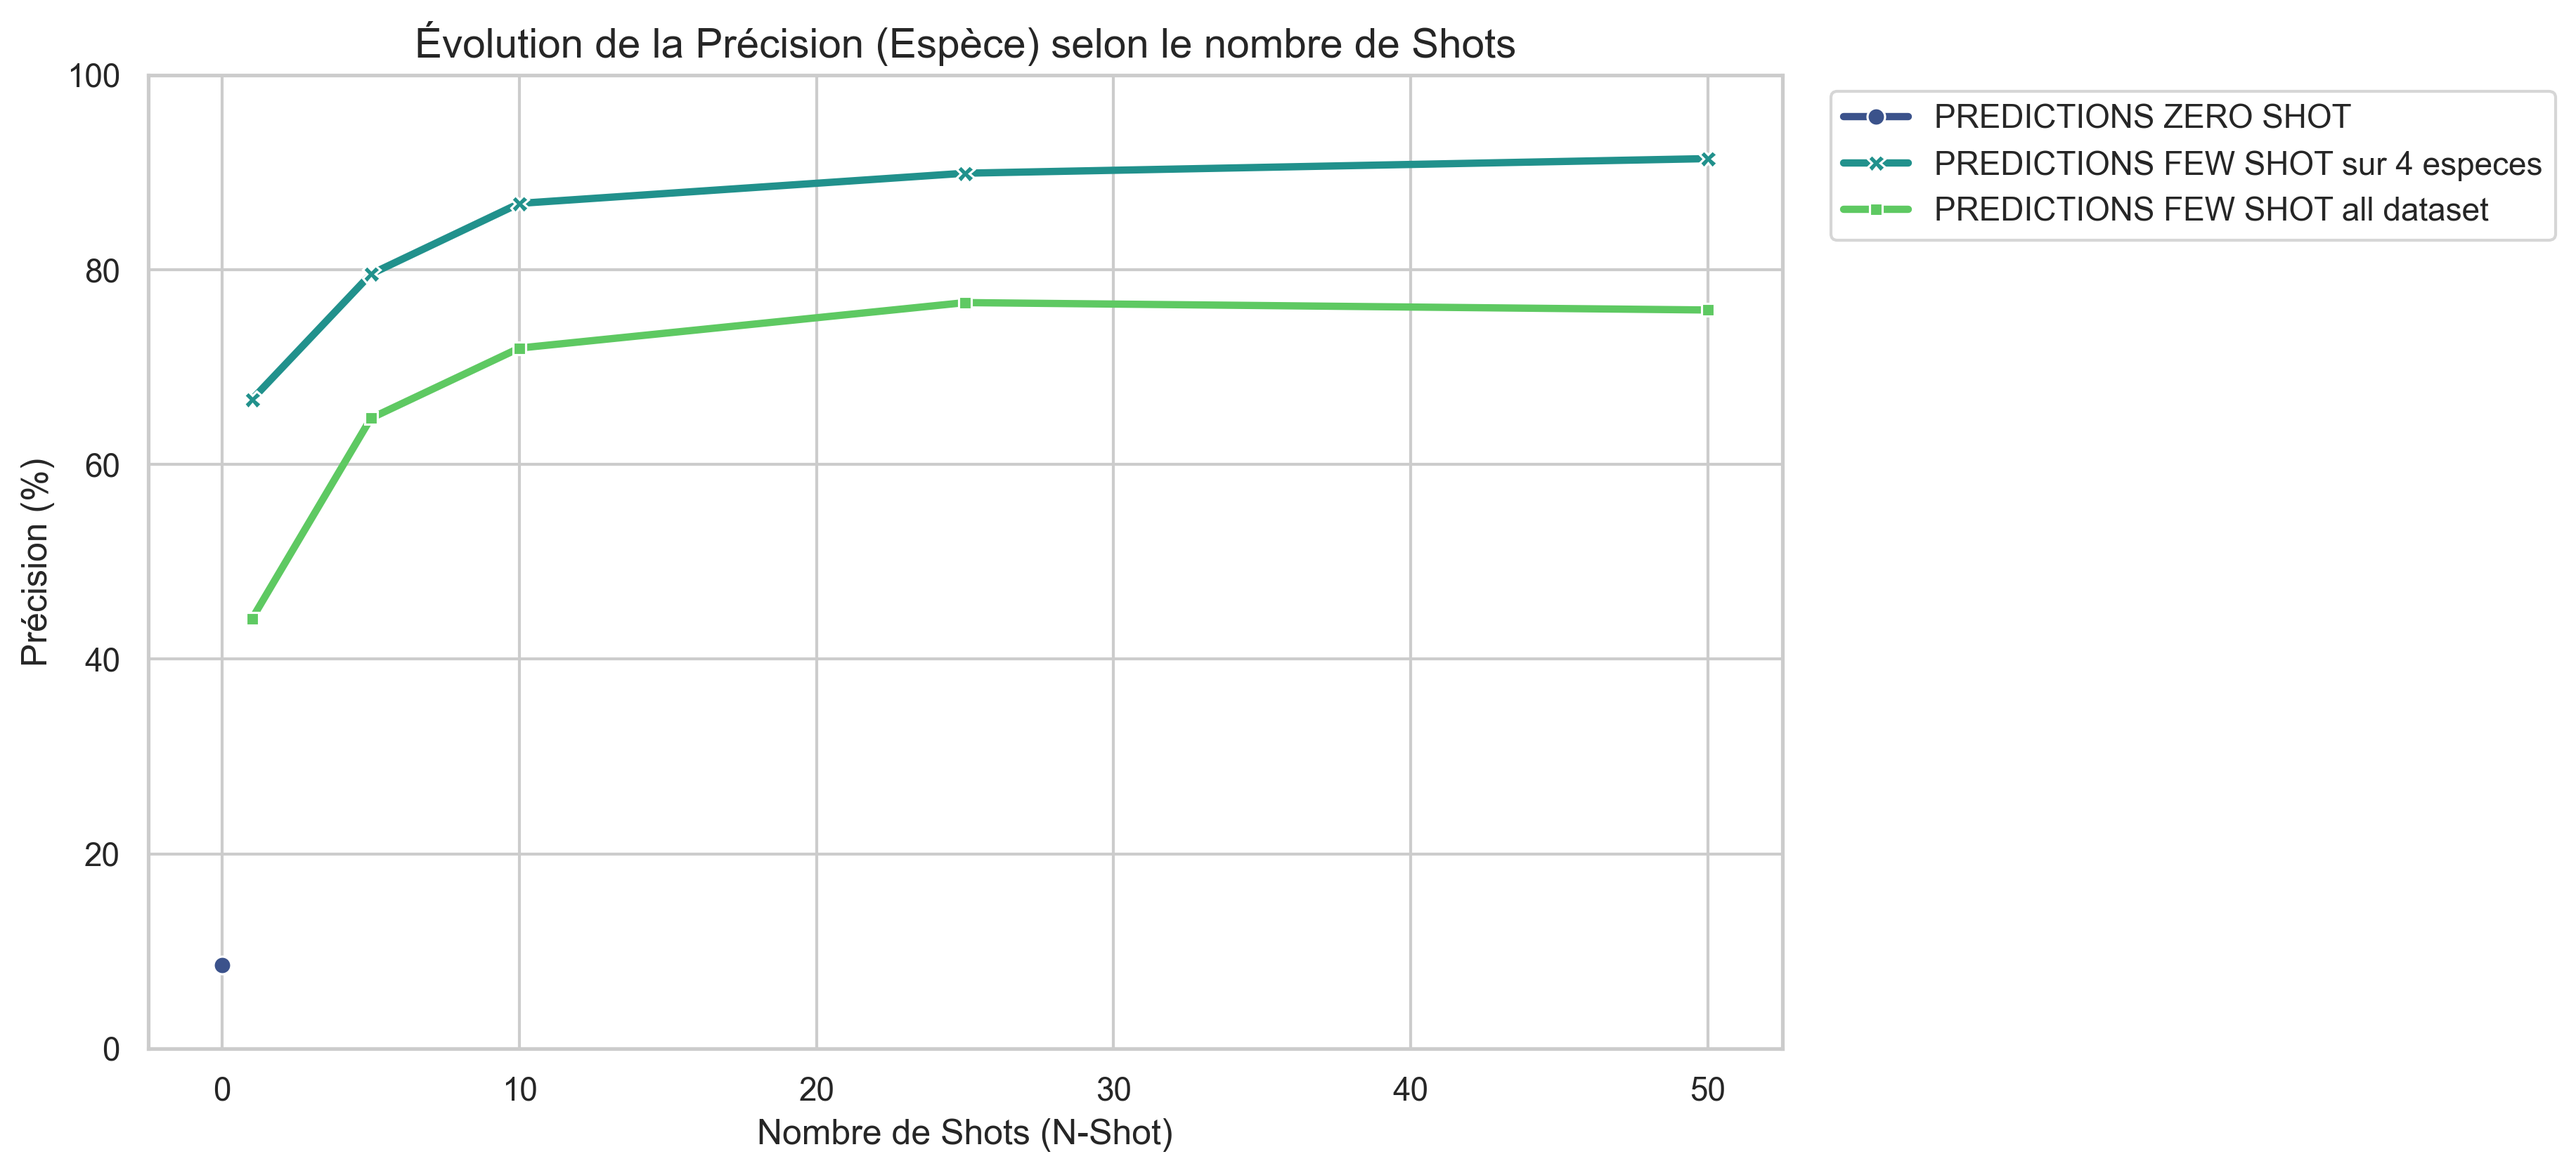
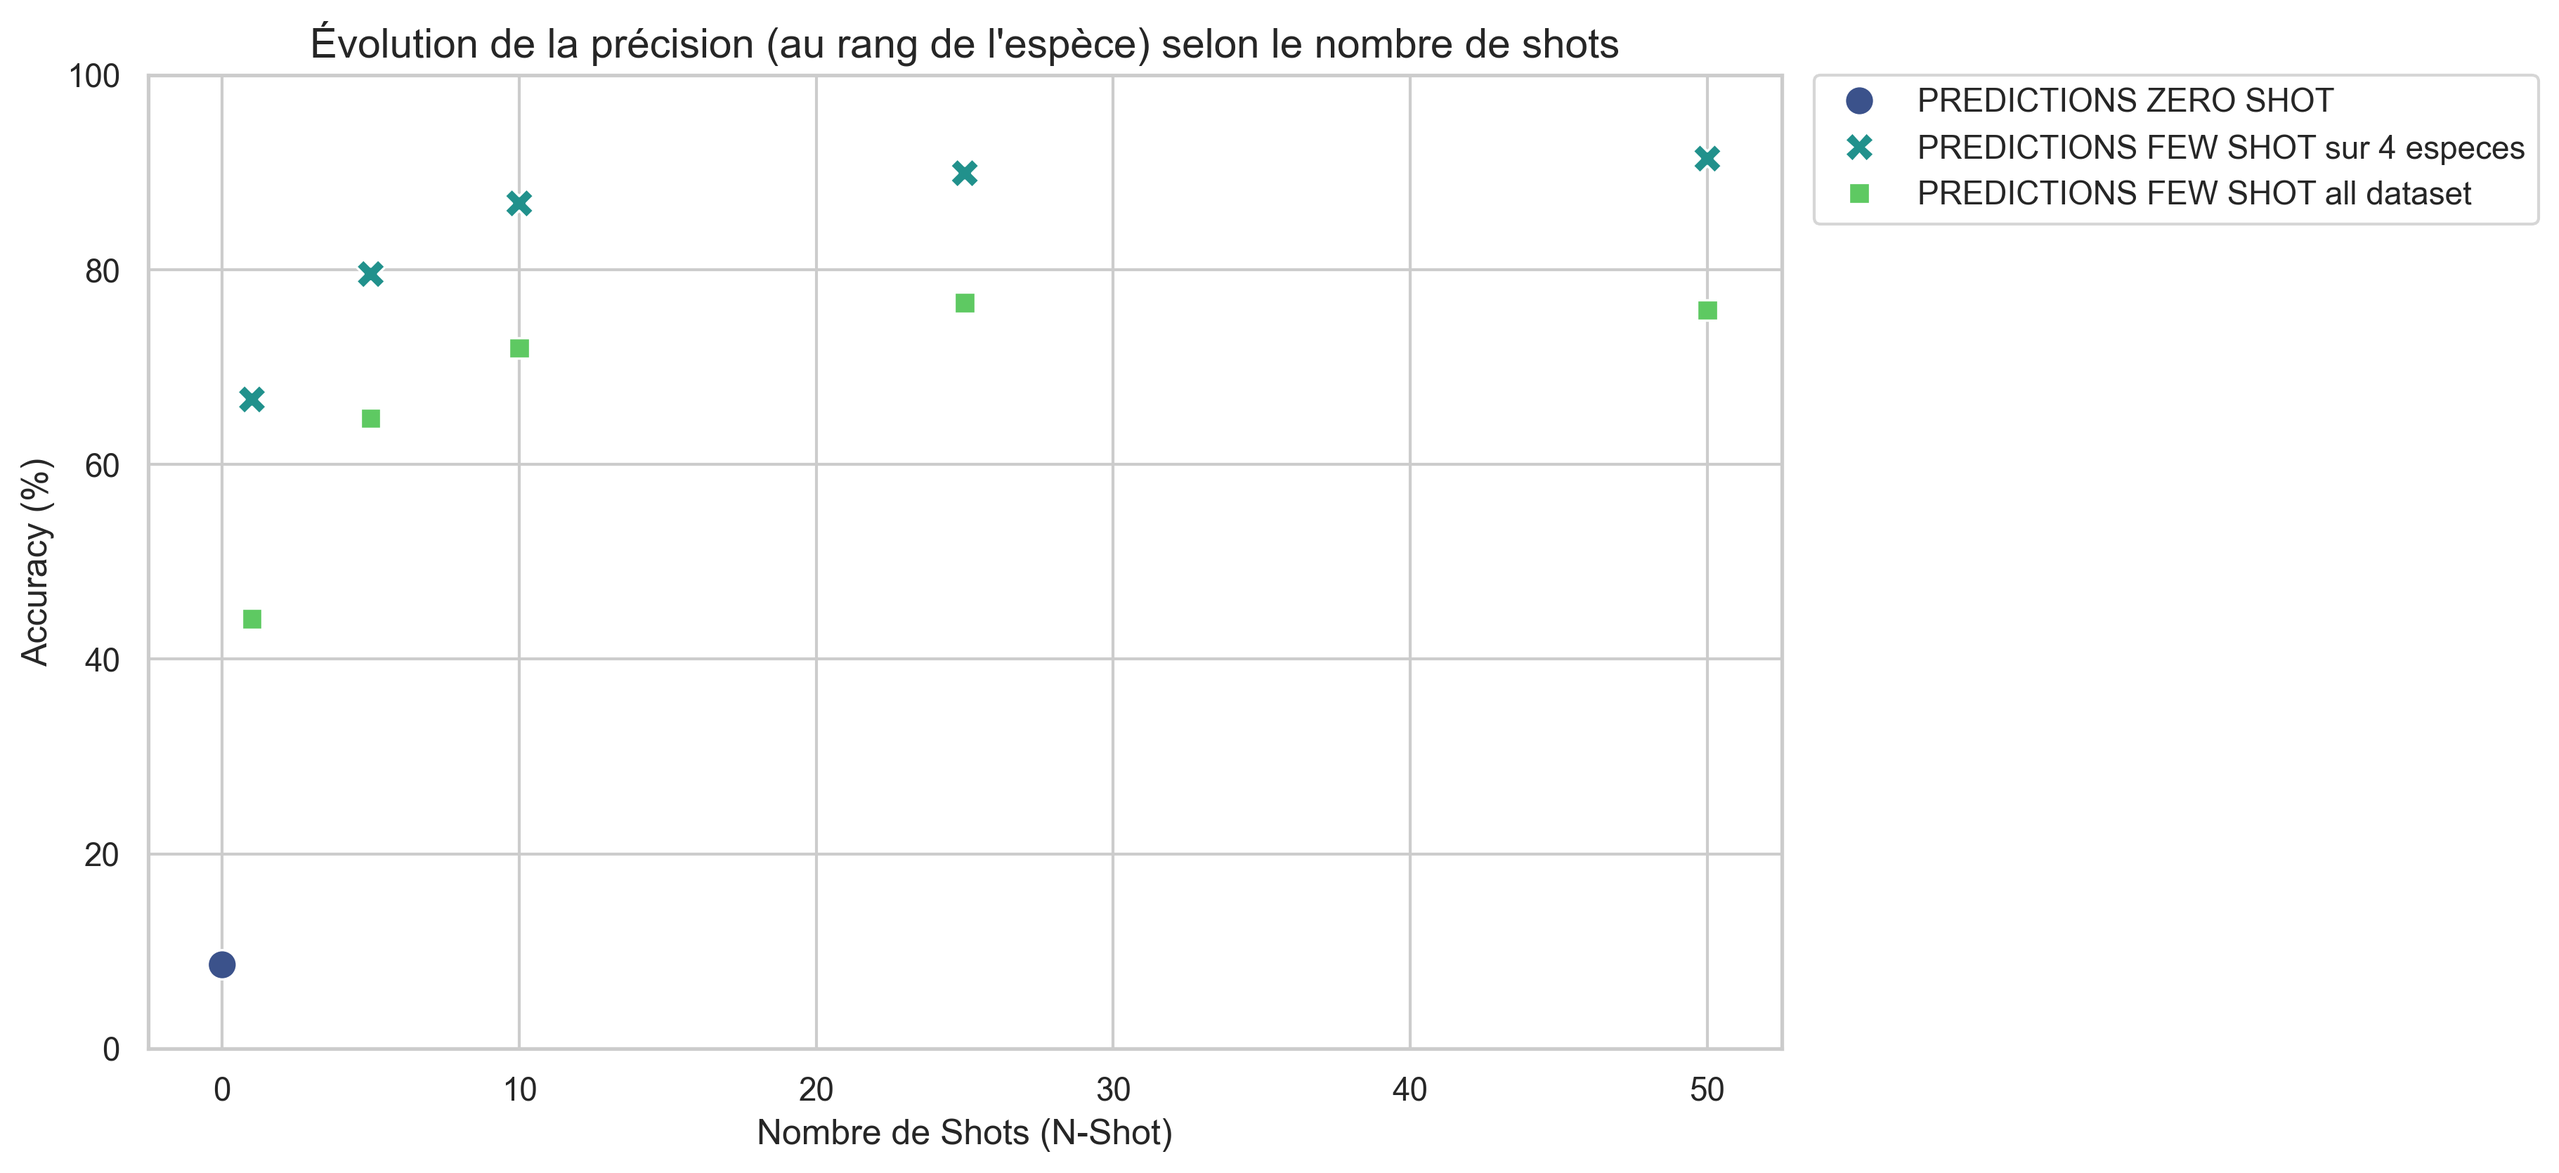
graph v0

diff --git a/Code/GRAPH.py b/Code/GRAPH.py
@@ -21,29 +21,49 @@ def generer_graphiques_v2(input_file):
     
     # graph 1 : evolution precision espece
     plt.figure(figsize=(10, 6))
-    sns.lineplot(
+    sns.scatterplot(
         data=df, 
         x="N Shot", 
         y="Précision Espèce", 
-        hue="Technique", 
-        style="Technique", 
-        markers=True, 
-        dashes=False,
-        linewidth=2.5,
+        hue="Technique",    
+        style="Technique",  
+        s=100,             
         palette="viridis"
     )
-    plt.title("Évolution de la Précision (Espèce) selon le nombre de Shots", fontsize=14)
-    plt.ylabel("Précision (%)")
+    plt.title("Évolution de la précision (au rang de l'espèce) selon le nombre de shots", fontsize=14)
+    plt.ylabel("Accuracy (%)")
     plt.xlabel("Nombre de Shots (N-Shot)")
     plt.ylim(0, 100)
-    plt.legend(bbox_to_anchor=(1.02, 1), loc='upper left')
     
-    # save
-    filename1 = f"{output_dir}/Graphique_1_Evolution_Precision.png"
+    plt.legend(bbox_to_anchor=(1.02, 1), loc='upper left', borderaxespad=0)
+    
+    filename1 = f"{output_dir}/Graphique_1_evolution_precision.png"
     plt.savefig(filename1, dpi=300, bbox_inches='tight')
     plt.close()
 
-    # graph 2 : espece vs genre
+    # graph 1,5 evolution precision genre
+    plt.figure(figsize=(10, 6))
+    sns.scatterplot(
+        data=df, 
+        x="N Shot", 
+        y="Précision Genre", 
+        hue="Technique",
+        style="Technique",  
+        s=100,              
+        palette="viridis"
+    )
+    plt.title("Évolution de la précision (au rang du genre) selon le nombre de shots", fontsize=14)
+    plt.ylabel("Accuracy (%)")
+    plt.xlabel("Nombre de Shots (N-Shot)")
+    plt.ylim(0, 100)
+    plt.legend(bbox_to_anchor=(1.02, 1), loc='upper left', borderaxespad=0)
+    
+    filename1_5 = f"{output_dir}/Graphique_1,5_evolution_precision.png"
+    plt.savefig(filename1_5, dpi=300, bbox_inches='tight')
+    plt.close()
+    
+    
+    # graph 2 : espece vs genre all dataset
     technique_name = "PREDICTIONS FEW SHOT all dataset"
     df_subset = df[df['Technique'] == technique_name]
 
@@ -58,17 +78,44 @@ def generer_graphiques_v2(input_file):
             x="N Shot",
             y="Précision",
             hue="Niveau Taxonomique",
-            palette="magma"
+            palette="viridis"
         )
         plt.title(f"Précision Espèce vs Genre ({technique_name})", fontsize=14)
-        plt.ylabel("Précision (%)")
+        plt.ylabel("Accuracy (%)")
         plt.ylim(0, 105)
         plt.legend(loc='lower right')
         
-        filename2 = f"{output_dir}/Graphique_2_Espece_vs_Genre.png"
+        filename2 = f"{output_dir}/Graphique_2_espece_vs_genre.png"
         plt.savefig(filename2, dpi=300, bbox_inches='tight')
         plt.close()
 
+# graph 2,5 : espece vs genre sur 4 especes
+    technique_name = "PREDICTIONS FEW SHOT sur 4 especes"
+    df_subset = df[df['Technique'] == technique_name]
+
+    if not df_subset.empty:
+        plt.figure(figsize=(10, 6))
+        # Formatage pour Seaborn
+        df_melted = df_subset.melt(id_vars=['N Shot'], value_vars=['Précision Espèce', 'Précision Genre'], 
+                                   var_name='Niveau Taxonomique', value_name='Précision')
+        
+        sns.barplot(
+            data=df_melted,
+            x="N Shot",
+            y="Précision",
+            hue="Niveau Taxonomique",
+            palette="viridis"
+        )
+        plt.title(f"Précision Espèce vs Genre ({technique_name})", fontsize=14)
+        plt.ylabel("Accuracy (%)")
+        plt.ylim(0, 105)
+        plt.legend(loc='lower right')
+        
+        filename2 = f"{output_dir}/Graphique_2,5_espece_vs_genre.png"
+        plt.savefig(filename2, dpi=300, bbox_inches='tight')
+        plt.close()
+        
+        
     # graph 3 : temps inference
     df_time = df[df['N Shot'] > 0].copy() # On ignore le 0 shot pour le temps
     
@@ -79,17 +126,37 @@ def generer_graphiques_v2(input_file):
             x="N Shot",
             y="Inférence (s)",
             hue="Technique",
-            palette="rocket"
+            palette="viridis"
         )
-        plt.title("Temps d'Inférence selon le N-Shot (Échelle Log)", fontsize=14)
-        plt.ylabel("Temps (secondes)")
-        plt.yscale("log")
+        plt.title("Temps d'inférence selon le N-Shot", fontsize=14)
+        plt.ylabel("Temps (s)")
+        #plt.yscale("log")
         plt.legend(bbox_to_anchor=(1.02, 1), loc='upper left')
         
-        filename3 = f"{output_dir}/Graphique_3_Temps_Inference.png"
+        filename3 = f"{output_dir}/Graphique_3_temps_inference.png"
         plt.savefig(filename3, dpi=300, bbox_inches='tight')
         plt.close()
     
+        # graph 3,5 temps inference echelle log
+    df_time = df[df['N Shot'] > 0].copy() # On ignore le 0 shot pour le temps
+    
+    if not df_time.empty and 'Inférence (s)' in df_time.columns:
+        plt.figure(figsize=(10, 6))
+        sns.barplot(
+            data=df_time,
+            x="N Shot",
+            y="Inférence (s)",
+            hue="Technique",
+            palette="viridis"
+        )
+        plt.title("Temps d'inférence selon le N-Shot", fontsize=14)
+        plt.ylabel("Temps (s)")
+        plt.yscale("log")
+        plt.legend(bbox_to_anchor=(1.02, 1), loc='upper left')
+        
+        filename3 = f"{output_dir}/Graphique_3,5_temps_inference.png"
+        plt.savefig(filename3, dpi=300, bbox_inches='tight')
+        plt.close()
 
 # main
 
